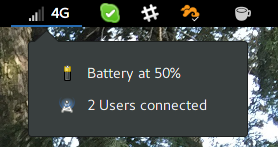
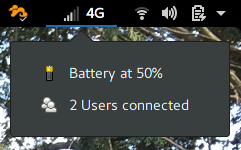
Move extension to the right

diff --git a/extension.js b/extension.js
@@ -21,7 +21,7 @@ function enable() {
     let pollIntervalInSeconds = 2;
     _indicator = new HuaweiStatusMenu();
     _updateMenubar();
-    Main.panel.addToStatusArea('huawei-status-menu', _indicator, 0, 'right');
+    Main.panel.addToStatusArea('huawei-status-menu', _indicator, 1);
     _backgroundUpdateTag = Mainloop.timeout_add_seconds(pollIntervalInSeconds, Lang.bind(this, function (){
          _updateMenubar();
          return true;
@@ -73,7 +73,7 @@ const HuaweiStatusMenu = new Lang.Class({
         this.actor.add_actor(hbox);
 	_batteryEntry = new HuaweiMenuItem({icon : "battery", label : _("NO DATA")});
 	this.menu.addMenuItem(_batteryEntry);
-	_usersEntry = new HuaweiMenuItem({icon : "network-wireless", label : _("NO DATA")});
+	_usersEntry = new HuaweiMenuItem({icon : "system-users", label : _("NO DATA")});
 	this.menu.addMenuItem(_usersEntry);
     },
 
